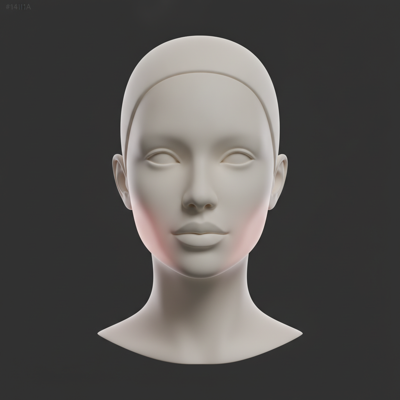
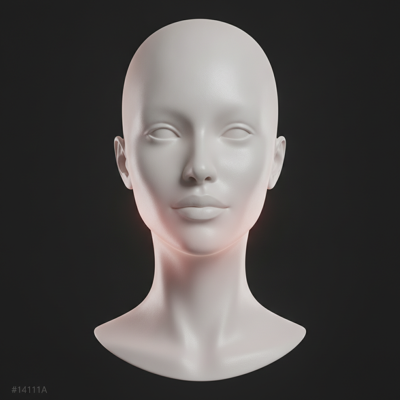
Worker security P0 (auth default-deny, full-payload cache hash) + real 3D heads (texture/dryness/sagging) + multi-agent review report
- validateHdAuth/validatePremiumAuth: bypass only when ENVIRONMENT==='development' (was !=='production', a typo would open prod)
- analysisHash: hash full payload + 16 bytes (was 6000-char prefix + 12 bytes -> collision/cache-leak risk)
- generated dedicated Gemini concern heads (replace placeholder reuse)
- review-multiagents-2026-06-15.md: consolidated findings + owner split

Changed region(s): [[0.24, 0.03, 0.78, 0.96], [0.0, 0.0, 0.09, 0.03]]

diff --git a/CloudflareWorker/src/index.ts b/CloudflareWorker/src/index.ts
@@ -300,8 +300,9 @@ function percentileFromOverall(overall: number): number {
 /** HMAC-SHA256 signature (first 16 bytes, hex) for signed /images/ URLs. */
 /** Short content hash for idempotent caching of analyses (hashes a prefix for speed). */
 async function analysisHash(s: string): Promise<string> {
-  const buf = await crypto.subtle.digest("SHA-256", new TextEncoder().encode(s.slice(0, 6000)));
-  return [...new Uint8Array(buf)].slice(0, 12).map((b) => b.toString(16).padStart(2, "0")).join("");
+  // Hash the FULL payload (not a prefix) so similar JPEG/EXIF headers cannot collide.
+  const buf = await crypto.subtle.digest("SHA-256", new TextEncoder().encode(s));
+  return [...new Uint8Array(buf)].slice(0, 16).map((b) => b.toString(16).padStart(2, "0")).join("");
 }
 
 async function signKey(key: string, secret: string): Promise<string> {
@@ -368,8 +369,8 @@ async function validateHdAuth(
   headers: Record<string, string>
 ): Promise<{ subscriberToken: string } | Response> {
   const authHeader = request.headers.get("Authorization");
-  // Local dev bypass (never in production): keeps the web preview testable.
-  if (env.ENVIRONMENT !== "production") {
+  // Local dev bypass — default-deny: ONLY when explicitly "development".
+  if (env.ENVIRONMENT === "development") {
     return { subscriberToken: authHeader?.startsWith("Bearer ") ? authHeader.slice(7) : "dev-bypass" };
   }
   if (!authHeader?.startsWith("Bearer ")) {
@@ -390,8 +391,8 @@ async function validatePremiumAuth(
   headers: Record<string, string>
 ): Promise<{ subscriberToken: string } | Response> {
   const authHeader = request.headers.get("Authorization");
-  // Local dev bypass (never in production).
-  if (env.ENVIRONMENT !== "production") {
+  // Local dev bypass — default-deny: ONLY when explicitly "development".
+  if (env.ENVIRONMENT === "development") {
     return { subscriberToken: authHeader?.startsWith("Bearer ") ? authHeader.slice(7) : "dev-bypass" };
   }
   if (!authHeader?.startsWith("Bearer ")) {

diff --git a/market-research/review-multiagents-2026-06-15.md b/market-research/review-multiagents-2026-06-15.md
@@ -1,0 +1,36 @@
+# Review multi-agents — code mergé 2026-06-15 (5 angles)
+
+Read-only review de tout le code du jour (logique, écrans, Worker, conformité, intégrité data). Owner = qui corrige (Moi = Worker/logique/data ; Cursor = écrans/UI). Style: pas de tirets cadratins.
+
+## 🔴 P0 (à corriger en priorité)
+
+1. **Worker auth bypass** (`index.ts` validateHdAuth/validatePremiumAuth) — `ENVIRONMENT !== "production"` ouvre tout le premium gratuitement. Une var manquante/typo en prod = paywall serveur percé. **Fix: bypass seulement si `ENVIRONMENT === "development"` (default-deny).** → Moi ✅ (corrigé ce tour)
+2. **Worker cache hash collision** (`analysisHash`) — hash sur 6000 premiers chars + 12 octets → deux selfies au même header JPEG/EXIF peuvent collisionner → utilisatrice B reçoit le résultat caché de A (fuite + analyse fausse). **Fix: hasher la string complète, garder ≥16 octets.** → Moi ✅ (corrigé ce tour)
+3. **Reco: skinType figé à 'tous'** (`recoEngine.contextFromConcerns/contextFromQuiz`) — les règles avec `skin_type` spécifique (grasse/seche/sensible/mixte/mature) ne matchent jamais → **5 des 9 concerns du picker (breakouts, redness, fine_lines, dryness, sagging) renvoient ZÉRO produit.** Le plus gros tueur silencieux du moteur de reco. **Fix: ne pas figer skinType (undefined) OU traiter `'tous'` comme wildcard dans matchesRule.** → Data (à se répartir)
+4. **Compliance: Maxed-Out teaser sans label "AI simulated"** (`scan-result.tsx` teaser + CTA glow_max) — tous les autres écrans l'ont, pas le reveal le plus vu. **Blocker Apple.** Fix: ajouter le disclaimer sur la carte teaser + résultat glow_max. → Cursor (écran)
+5. **Compliance: onboarding nomme des procédures médicales** (`onboarding.tsx` GLOW_TYPES "Rhinoplasty, facelift / Botox, fillers, lasers") — reco médicale + amplifie 1.2. Fix: reformuler en objectifs non-cliniques (Skincare / Makeup & styling). → Cursor (écran)
+6. **stress-scan: état erreur inatteignable** (`stress-scan.tsx` ~166) — `busy || !resultUri` testé avant `err` → spinner infini sur échec. Fix: tester `err` d'abord. → Cursor (écran)
+
+## 🟠 Important
+- **Worker transform/makeup sans cache** (cost) — ajouter le même cache `analysisHash` avant `callGeminiGlowup`. → Moi
+- **Worker rate-limit TOCTOU** — read-modify-write KV non atomique + rollback écrit une valeur absolue stale (sous/sur-comptage). Vrai fix = Durable Object. → Moi (backlog)
+- **colorPalette.ts divide-by-zero** — `generateLipSwatches(base, 1)` → `t = 0/0 = NaN` → `#NaNNaNNaN`. Fix: `count===1 ? 0 : i/(count-1)`. → Cursor (util créé par Cursor)
+- **scan-result imageUri non normalisé** — `useLocalSearchParams` peut renvoyer `string[]`; utilisé brut (faceScan, Image). Fix: `Array.isArray(x)?x[0]:x`. → Cursor
+- **scan-result blur setInterval sans cleanup** — fuite + setState après unmount. Fix: clearInterval dans le return. → Cursor
+- **color-season NaN non gardé** — `result.contrast*10`, `palette.join`, `avoid.length` sans défaut. Fix: `?? 0`/`?? []`. → Cursor
+- **glowPlan toggleTaskToday race** — read-modify-write du plan sans lock; 2 taps rapides perdent une complétion. Fix: file de promesses / merge. → Data (à se répartir)
+- **dayKey en UTC** (`glowPlan`/`progressAnalytics`) — streak/complétion basculent à minuit UTC, pas local. Fix: clé Y-M-D locale. → Data
+- **reco-rules: 8 règles `product_category` non mappable** (blush, bronzer, lipstick, blush_bronzer, scalp_essence, body_oil, routine_template, program) → produit null. Fix: ajouter au categoryMap ou aligner. → Data
+- **reco: ~19 concern tags absents de tout produit** → filtrage concern no-op (fallback catégorie). Fix: tagger les produits. → Data
+- **Compliance: rétention incohérente** ("48h" vs "not stored afterwards") — aligner sur "within 48 hours" partout. → Cursor
+- **Compliance: stress-scan/color-season pickent ImagePicker sans re-check `hasAiConsent`** — ajouter un check consentement avant transform. → Cursor
+
+## 🟡 Nits
+CORS échoue en renvoyant glowupai.app au lieu d'omettre l'en-tête; APP_TOKEN dormant si non set; SSRF théorique sur fetch des URLs modèle (allowlist host); reco persona logic muddled (agent 1).
+
+## Bonne nouvelle
+0 erreur console sur home/concerns/pricing (rendu sain). Consentement biométrique avant upload présent (scan-result + onboarding). validateSubscriber fail-closed correct. Pas de body-shaming ("flaws") dans la copy. "Glow at any size" = signal positif à garder.
+
+## Répartition suggérée
+- **Moi (Worker/logique/data)** : #1 #2 (faits), transform/makeup cache, TOCTOU, + items "Data" (skinType, reco-rules categories, tags, dayKey local, toggle race).
+- **Cursor (écrans)** : #4 #5 #6 + colorPalette NaN, imageUri normalize, blur cleanup, color-season guards, rétention copy, consent re-check.